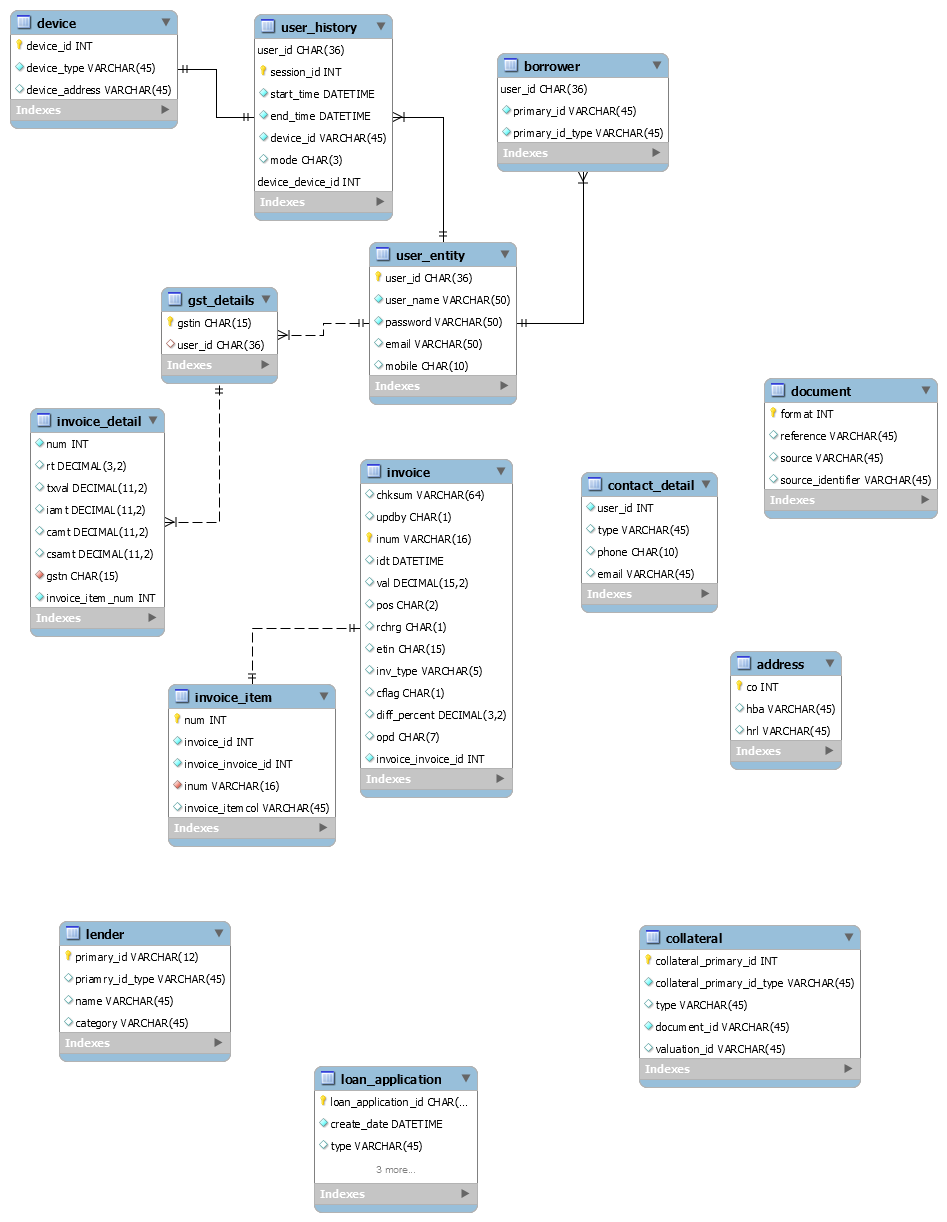
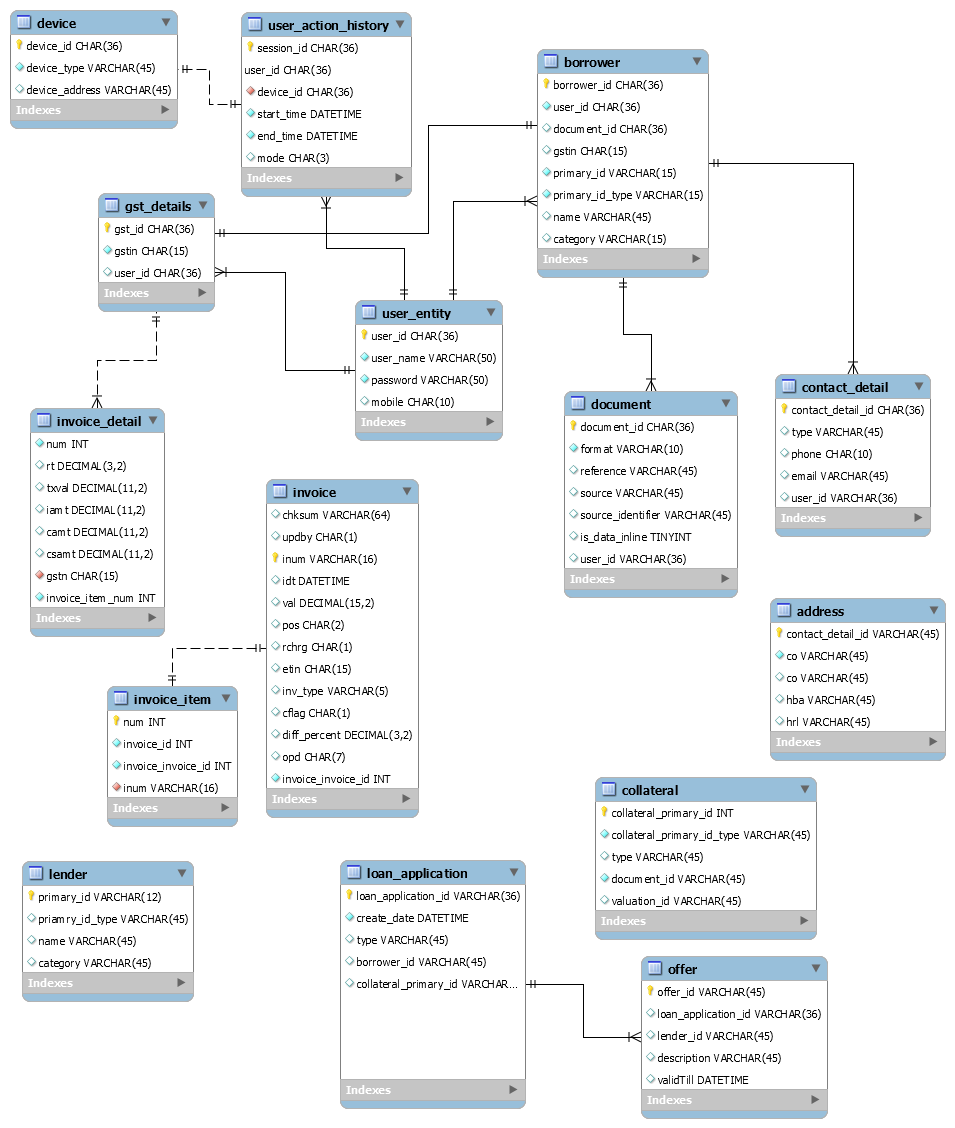
updated

Changed region(s): [[0.0, 0.0, 0.7656, 0.9929], [0.5818, 0.3103, 1.0, 0.9929]]

diff --git a/microservice-architecture.md b/microservice-architecture.md
@@ -9,15 +9,44 @@ The first step in the process of availing loan through an LCP would be user regi
 
 1. User Registration
 * Username and password
-* Preferably, username should be same as user's email id, which can be verified using OTP or verification link. This will help the user to recover his/her account in case he/she forgets the password.
+* Username would be same as user's email id, which will be verified using OTP or verification link. This will help the user to recover his/her account in case he/she forgets the password.
+
+Steps for user registraion:
+* User will enter username (email) and password.
+* The application will verify if the username entered is unique or not. If the username already exists in the system, it will throw an error. If it is unique, a temperory user_entity will be created (this object will not be stored in the database). The user will be requested to check their email
+* Upon clicking on the verification link, or entering the OTP, the user will be verified and the details will be stored in the database
 
 2. User Login
 * Use JWT token for verifying user sessions
 
-3. Fetching GST invoices
-* After successful login, the user will input his/her GSTIN to fetch the eligible invoices.
+3. User profiling (Borrower's details)
+After successful login, the user will input his/her GSTIN. User's getails would be fetched from GST portal and would be mapped according to Borrower's attributes in OCEN specifications
 
-> Will user's GSTIN be stored in the LSP's database Or has it to be entered every time the user wants to apply for a new loan?
+Mapping between data fetched from GST and data required for Borrower's profiling
+
+|Field from GST|Type |Description|Field in Borrower's address|Type |Description|
+|---------------|:---:|:---------:|:----------------------|:---:|:---------:|
+|bnm |String|building name|hba      |String|House/Building/Apartment|
+|st  |String|street       |srl      |String|Street/Road/Lane        |
+|loc |String|location     |als      |String|Area/Locality/Sector    |
+|bno |String|door number  |         |String||
+|stcd|String|state name   |state    |String||
+|flno|String|floor number |         |String||
+|lt  |String|lattitude    |lattitude|String||
+|lg  |String|longitude    |longitude|String||
+|pncd|String|pincode      |pincode  |String||
+|    |      |             |co       |String|care of                  |
+|    |      |             |landmark |String||
+|    |      |             |vtc      |String|Village/Town/City        |
+|    |      |             |po       |String||
+|    |      |             |district |String||
+|    |      |             |         |String|country                  |
+|    |      |             |url      |String|digital address          |
+
+
+
+3. Fetching GST invoices
+* After successful login, upon user's request eligible invoices will be fetched from GSTIN.
 
 Inputs required
 * GSTIN
@@ -61,6 +90,183 @@ Inputs required
                 "camt": 0,
                 "samt": 0,
                 "csamt": 10
+              }
+            }
+          ]
+        }
+      ]
+    }
+  ]
+}
+```
+
+```
+{
+  "gstin": "01AABCE2207R1Z5",
+  "fp": "052020",
+  "b2b": [
+    {
+      "ctin": "01AABCE2207R1Z5",
+      "trdname": "E-Invoicer",
+      "inv": [
+        {
+          "chksum": "BBUIBUIUIJKKBJKGUYFTFGUY",
+          "inum": "S008400",
+          "idt": "24-11-2016",
+          "val": 729248.16,
+          "pos": "06",
+          "rchrg": "N",
+          "etin": "01AABCE5507R1C4",
+          "inv_typ": "R",
+          "srctyp": "e-Invoice",
[1 lines of base64/hex data omitted]
+          "irngendate": "24-12-2019",
+          "einvstatus": "ACT",
+          "autodft": "Auto-populated",
+          "autodftdt": "24-12-2019",
+          "errorCd": "null",
+          "errorMsg": "null",
+          "itms": [
+            {
+              "num": 1,
+              "itm_det": {
+                "rt": 5,
+                "txval": 10000,
+                "iamt": 325,
+                "camt": 0,
+                "samt": 0,
+                "csamt": 10
+              }
+            }
+          ]
+        }
+      ]
+    }
+  ],
+  "cdnur": [
+    {
+      "chksum": "ASDFGJKLPTBBJKBJKBBJKBB",
+      "typ": "B2CL",
+      "ntty": "C",
+      "nt_num": "533515",
+      "nt_dt": "23-09-2016",
+      "val": 123123,
+      "pos": "03",
+      "srctyp": "e-Invoice",
[1 lines of base64/hex data omitted]
+      "irngendate": "24-12-2019",
+      "einvstatus": "ACT",
+      "autodft": "Auto-population failed",
+      "autodftdt": "24-12-2019",
+      "errorCd": "RT123",
+      "errorMsg": "Error in AutoDraft",
+      "itms": [
+        {
+          "num": 1,
+          "itm_det": {
+            "rt": 10,
+            "txval": 5225.28,
+            "iamt": 845.22,
+            "csamt": 789.52
+          }
+        }
+      ]
+    }
+  ],
+  "exp": [
+    {
+      "exp_typ": "WPAY",
+      "inv": [
+        {
+          "chksum": "ASDFGJKLPTBBJKBJKBBJKBB",
+          "inum": "81542",
+          "idt": "12-02-2016",
+          "val": 995048.36,
+          "sbpcode": "ASB991",
+          "sbnum": "7896542",
+          "sbdt": "04-10-2016",
+          "srctyp": "e-Invoice",
[1 lines of base64/hex data omitted]
+          "irngendate": "24-12-2019",
+          "einvstatus": "ACT",
+          "autodft": "Auto-population failed",
+          "autodftdt": "24-12-2019",
+          "errorCd": "RT123",
+          "errorMsg": "Error in AutoDraft",
+          "itms": [
+            {
+              "txval": 10000,
+              "rt": 5,
+              "iamt": 833.33,
+              "csamt": 100
+            }
+          ]
+        }
+      ]
+    },
+    {
+      "exp_typ": "WOPAY",
+      "inv": [
+        {
+          "chksum": "ASDFGJKLPTBBJKBJKBBJKBB",
+          "inum": "81542",
+          "idt": "12-02-2016",
+          "val": 995048.36,
+          "sbpcode": "ASB881",
+          "sbnum": "7896542",
+          "sbdt": "04-10-2016",
+          "srctyp": "e-Invoice",
[1 lines of base64/hex data omitted]
+          "irngendate": "24-12-2019",
+          "einvstatus": "ACT",
+          "autodft": "Auto-population failed",
+          "autodftdt": "24-12-2019",
+          "errorCd": "null",
+          "errorMsg": "null",
+          "itms": [
+            {
+              "txval": 10000,
+              "rt": 5,
+              "iamt": 325,
+              "csamt": 100
+            }
+          ]
+        }
+      ]
+    }
+  ],
+  "cdnr": [
+    {
+      "ctin": "01AAAAP1208Q1ZS",
+      "trdname": "E-Invoicer",
+      "nt": [
+        {
+          "chksum": "adsdsfsjskssssq",
+          "ntty": "C",
+          "nt_num": "533515",
+          "nt_dt": "23-09-2016",
+          "val": 123123,
+          "pos": "03",
+          "rchrg": "Y",
+          "inv_typ": "DE",
+          "srctyp": "e-Invoice",
[1 lines of base64/hex data omitted]
+          "irngendate": "24-12-2019",
+          "einvstatus": "ACT",
+          "autodft": "Auto-population failed",
+          "autodftdt": "24-12-2019",
+          "errorCd": "RT123",
+          "errorMsg": "Error in AutoDraft",
+          "itms": [
+            {
+              "num": 1,
+              "itm_det": {
+                "rt": 10,
+                "txval": 5225.28,
+                "iamt": 845.22,
+                "camt": 0,
+                "samt": 0,
+                "csamt": 789.52
               }
             }
           ]
@@ -120,17 +326,6 @@ Inputs required
 
 #### The following points need clarification:
 
-
-1. Will there be an option for login to admin? If yes, what actions will admin perform?
-
-2. Where will user get AA id? Does he/she need to register on AA app first before registering to LSP app?
-Also note that AA id is not reusable across multiple AA
-[Reference](https://sahamati.org.in/faq/ "Sahamati FAQ")
-
-
-3. Format of response payload from AA?
-
-4. Will AA directly send user details to Lender? If yes, then where would the data to be sent in createLoanApplication come from?
 
 5. What is the "document" sent in createLoanApplication as a field of Borrower?
 
@@ -222,8 +417,6 @@ The above response sample is actually the same as response sample returned from 
 |adadr   |Object||Additional Place of Business Fields||
 |pradr   |Object||Pricipal Place of Business fields||
 
-6. Borrower details fetched from GST invoices do not match to the details to be sent with createLoanApplication (contact details etc). Does the borrow manually need to enter these details?
-
 
 7. What is document sent as a part of collateral?
 
@@ -264,4 +457,51 @@ The above response sample is actually the same as response sample returned from 
 }
 ```
 
+The above response is same as the response recieved from the folllowing: 
 
+**GET** https://<domain-name>/taxpayerapi/v2.1/returns/gstr1
+**URL Parameters**  action_required="Y/N", gstin={}, ret_period={},ctin={}, from_time={}
+[Get Challan History API](https://developer.gst.gov.in/apiportal/taxpayer/returns/apilist/v2.1 "GST Develpoer Portal")
+
+```
+{
+  "b2b": [
+    {
+      "ctin": "01AABCE2207R1Z5",
+      "cfs": "Y",
+      "inv": [
+        {
+          "chksum": "BBUIBUIUIJKKBJKGUYFTFGUY",
+          "updby": "S",
+          "inum": "S008400",
+          "idt": "24-11-2016",
+          "val": 729248.16,
+          "pos": "06",
+          "rchrg": "N",
+          "etin": "01AABCE5507R1Z4",
+          "inv_typ": "R",
+          "cflag": "N",
+          "diff_percent": 0.65,
+          "opd": "2016-12",
+          "srctyp": "EInvoice",
[1 lines of base64/hex data omitted]
+          "irngendate": "24-12-2019",
+          "itms": [
+            {
+              "num": 1,
+              "itm_det": {
+                "rt": 5,
+                "txval": 10000,
+                "iamt": 325,
+                "camt": 0,
+                "samt": 0,
+                "csamt": 10
+              }
+            }
+          ]
+        }
+      ]
+    }
+  ]
+}
+```

diff --git a/entity_sources.md b/entity_sources.md
@@ -13,18 +13,20 @@ There are three sources of information:
 
 |Fields   |Source|Comment|
 |---------|:----:|:------|
+|user_id  |LSP   |UUID|
 |username |USER  |username is same as user's email|
-|password |USER  |Stored in encrypted format|
-|mobile   |USER  ||
+|password |USER  |Stored after hashing|
+|mobile   |USER  |Optional|
 
 
 
 ### B. User profiling (Borrower's details)
-User type - 
+User type - GSTIN based
 
-|Fields        |Source|Comment|
-|--------------|:----:|:------|
-|gstin         |USER  ||
+|Fields        |Source |Comment|
+|--------------|:-----:|:------|
+|borrower_id   |LSP    |UUID|
+|gstin         |USER   ||
 |primary id    |Unknown|Either USER or GST|
 |primaryIdType |Unknown|PAN, AADHAR, MOBILE - Either USER or GST|
 |name          |Unknown|Either USER or GST|
